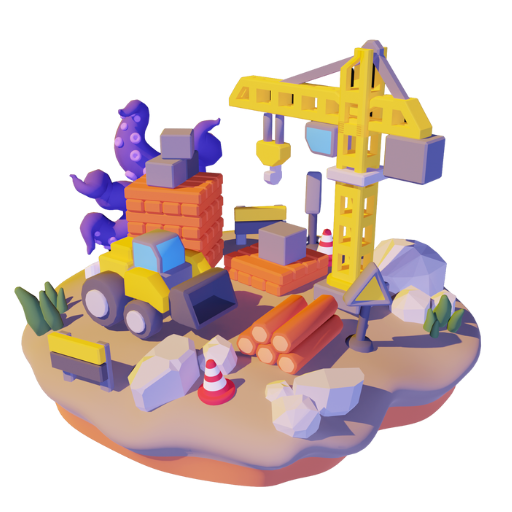
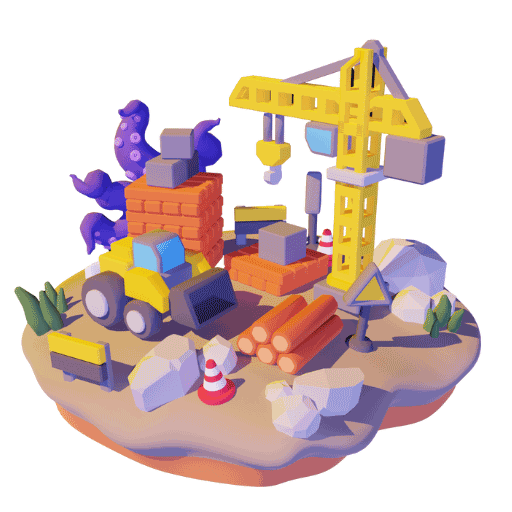
Update assets

diff --git a/index.html b/index.html
@@ -55,6 +55,7 @@
         <li><a href="#about"><i class="bi bi-person navicon"></i><span>About</span></a></li>
         <li><a href="#games"><i class="bi bi-controller"></i><span>Games</span></a></li>
         <li><a href="#portfolio"><i class="bi bi-images navicon"></i><span>Portfolio</span></a></li>
+
         <!--<li><a href="#contact"><i class="bi bi-envelope navicon"></i><span>Contact</span></a></li>-->
       </ul>
     </nav>
@@ -103,7 +104,7 @@
 
           <!-- Profile Image -->
           <div class="col-lg-4 d-flex justify-content-center">
-            <img src="assets/img/profile-img.jpg" class="img-fluid profile-img" alt="Profile Image">
+            <img src="assets/img/profile-img.png" class="img-fluid profile-img" alt="Profile Image">
           </div>
 
           <!-- About Content -->
@@ -118,42 +119,42 @@
             <!-- Skills & Tools Section -->
             <div class="row justify-content-center">
               <div class="col-lg-2 col-md-4 col-6 d-flex flex-column align-items-center">
-                <img src="assets/img/blender.jpg" class="img-icon" alt="Blender">
+                <img src="assets/img/blender.png" class="img-icon" alt="Blender">
                 <div class="stats-item">
                   <p>Blender</p>
                 </div>
               </div>
 
               <div class="col-lg-2 col-md-4 col-6 d-flex flex-column align-items-center">
-                <img src="assets/img/unity.jpg" class="img-icon" alt="Unity">
+                <img src="assets/img/unity.png" class="img-icon" alt="Unity">
                 <div class="stats-item">
                   <p>Unity</p>
                 </div>
               </div>
 
               <div class="col-lg-2 col-md-4 col-6 d-flex flex-column align-items-center">
-                <img src="assets/img/substance.jpg" class="img-icon" alt="Substance">
+                <img src="assets/img/substance.png" class="img-icon" alt="Substance">
                 <div class="stats-item">
                   <p>Substance</p>
                 </div>
               </div>
 
               <div class="col-lg-2 col-md-4 col-6 d-flex flex-column align-items-center">
-                <img src="assets/img/photoshop.jpg" class="img-icon" alt="Photoshop">
+                <img src="assets/img/photoshop.png" class="img-icon" alt="Photoshop">
                 <div class="stats-item">
                   <p>Photoshop</p>
                 </div>
               </div>
 
               <div class="col-lg-2 col-md-4 col-6 d-flex flex-column align-items-center">
-                <img src="assets/img/premiere.jpg" class="img-icon" alt="Premiere Pro">
+                <img src="assets/img/premiere.png" class="img-icon" alt="Premiere Pro">
                 <div class="stats-item">
                   <p>Premiere Pro</p>
                 </div>
               </div>
 
               <div class="col-lg-2 col-md-4 col-6 d-flex flex-column align-items-center">
-                <img src="assets/img/aftereffects.jpg" class="img-icon" alt="After Effects">
+                <img src="assets/img/aftereffects.png" class="img-icon" alt="After Effects">
                 <div class="stats-item">
                   <p>After Effects</p>
                 </div>
@@ -200,7 +201,7 @@
           <div class="col-lg-3 col-md-6">
             <div class="game-card">
               <div class="game-icon-wrapper">
-                <img src="assets/img/poker-factory.jpg" class="game-icon" alt="Poker Factory">
+                <img src="assets/img/poker-factory.png" class="game-icon" alt="Poker Factory">
               </div>
               <h3 class="game-title">Poker Factory</h3>
               <p class="game-description">
@@ -224,7 +225,7 @@
           <div class="col-lg-3 col-md-6">
             <div class="game-card">
               <div class="game-icon-wrapper">
-                <img src="assets/img/webmaster.jpg" class="game-icon" alt="WebMaster">
+                <img src="assets/img/webmaster.png" class="game-icon" alt="WebMaster">
               </div>
               <h3 class="game-title">WebMaster</h3>
               <p class="game-description">
